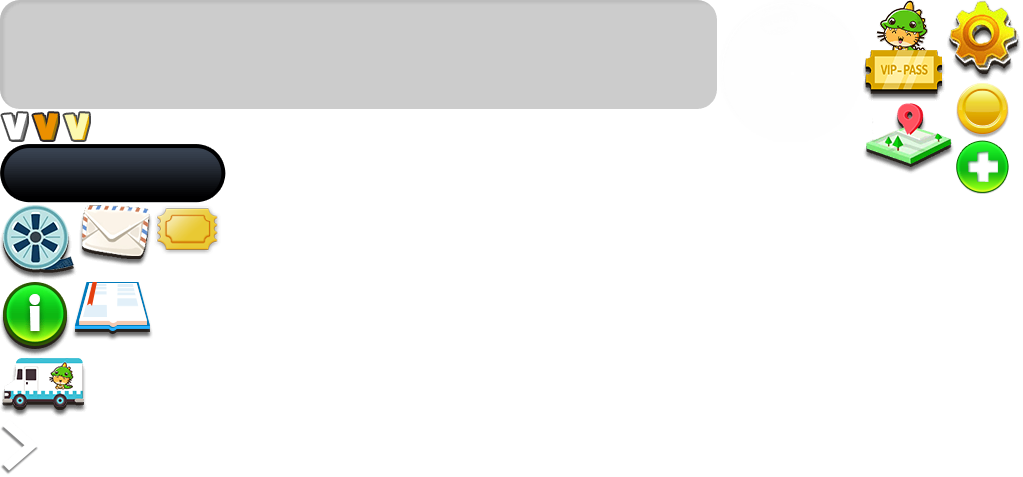
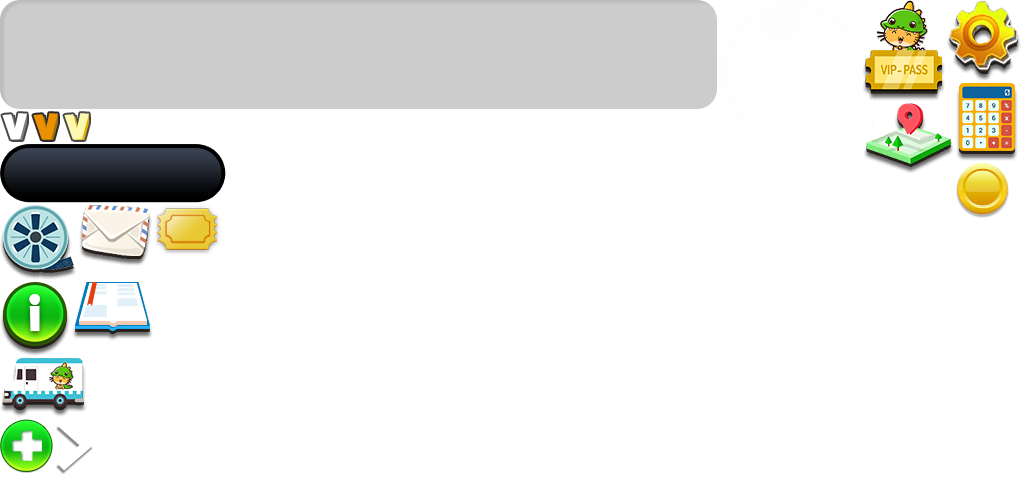
ledger

Changed region(s): [[0.9091, 0.1761, 1.0, 0.4696], [0.0, 0.8805, 0.0909, 0.9979]]

diff --git a/src/pages/my/user-center/user-center.component.ts b/src/pages/my/user-center/user-center.component.ts
@@ -4,7 +4,7 @@
 * @Author: Wayne Yu
 * @Date: 2021-09-10 15:17:37
  * @LastEditors: Wayne Yu
- * @LastEditTime: 2021-10-29 13:28:04
+ * @LastEditTime: 2021-10-29 14:43:43
 */
 import { Component } from '@angular/core';
 import { HttpClient } from '@angular/common/http';
@@ -69,6 +69,7 @@ export class UserCenterComponent extends MainPage {
       { icon: "icon_status", tip: "VIP status", itemType: UserCenterItemTypes.VIP },
       { icon: "icon_orders", tip: "My orders", itemType: UserCenterItemTypes.ORDER },
       { icon: "icon_address", tip: "My address", itemType: UserCenterItemTypes.ADDRESS },
+      { icon: "icon_ledger", tip: "Ledger", itemType: UserCenterItemTypes.LEDGER },
       { icon: "icon_setting", tip: "Settings", itemType: UserCenterItemTypes.SETTINGS },
       { icon: "icon_FAQs", tip: "FAQs", itemType: UserCenterItemTypes.FAQ, link: "https://www.dinomao.com/apps/help-center"  },
       { icon: "icon_contact", tip: "Contact us", itemType: UserCenterItemTypes.CONTACT },

diff --git a/src/siene/dynamic-layer/dynamic-layer.component.ts b/src/siene/dynamic-layer/dynamic-layer.component.ts
@@ -4,7 +4,7 @@
 * @Author: Wayne Yu
 * @Date: 2021-05-21 11:30:50
  * @LastEditors: Wayne Yu
- * @LastEditTime: 2021-10-28 10:06:27
+ * @LastEditTime: 2021-10-29 14:48:10
 */
 import { HttpClient } from '@angular/common/http';
 import { PageDirective } from './page.directive';
@@ -83,6 +83,8 @@ export class DynamicLayerComponent implements OnInit, OnChanges{
       case WebPages.VIDEO_RECORD: componentFactory = this.componentFactoryResolver.resolveComponentFactory(VideoRecordComponent);
         break;
       case WebPages.RECORD_PLAY: componentFactory = this.componentFactoryResolver.resolveComponentFactory(RecordPlayComponent);
+        break;
+      case WebPages.LEDGER: componentFactory = this.componentFactoryResolver.resolveComponentFactory(RecordPlayComponent);
         break;
       default:
         alert( "page name error" );

diff --git a/src/pages/my/user-center/user-center-scroll-list/user-center-scroll-list.component.ts b/src/pages/my/user-center/user-center-scroll-list/user-center-scroll-list.component.ts
@@ -4,7 +4,7 @@
  * @Author: Wayne Yu
  * @Date: 2021-09-14 11:49:12
  * @LastEditors: Wayne Yu
- * @LastEditTime: 2021-10-29 13:19:07
+ * @LastEditTime: 2021-10-29 14:45:22
  */
 import { Component } from '@angular/core';
 import { Application, ScrollListComponent } from '../../../../basicUI/basic-ui.module';
@@ -58,6 +58,9 @@ export class UserCenterScrollListComponent extends ScrollListComponent {
         break;
       case UserCenterItemTypes.RECORD:
         Trigger.gotoPage( WebPages.VIDEO_RECORD );
+        break;
+      case UserCenterItemTypes.LEDGER:
+        Trigger.gotoPage( WebPages.LEDGER );
         break;
       default:
         break;

diff --git a/src/service/gameData/user-center-item-types.ts b/src/service/gameData/user-center-item-types.ts
@@ -4,12 +4,13 @@
  * @Author: Wayne Yu
  * @Date: 2021-09-14 14:29:43
  * @LastEditors: Wayne Yu
- * @LastEditTime: 2021-10-27 17:11:46
+ * @LastEditTime: 2021-10-29 14:44:03
  */
 export class UserCenterItemTypes {
     public static VIP: string = "vip";
     public static ORDER: string = "order";
     public static ADDRESS: string = "address";
+    public static LEDGER: string = "ledger";
     public static SETTINGS: string = "setting";
     public static FAQ: string = "faq";
     public static CONTACT: string = "contact";

diff --git a/src/service/gameUILogic/WebPages.ts b/src/service/gameUILogic/WebPages.ts
@@ -4,7 +4,7 @@
  * @Author: Wayne Yu
  * @Date: 2021-09-02 11:56:43
  * @LastEditors: Wayne Yu
- * @LastEditTime: 2021-10-28 09:57:46
+ * @LastEditTime: 2021-10-29 14:45:39
  */
 export class WebPages {
     public static LOBBY: string = "lobby";
@@ -18,4 +18,5 @@ export class WebPages {
     public static START_UP: string = "startUp";
     public static VIDEO_RECORD: string = "videoRecord";
     public static RECORD_PLAY: string = "recordPlay";
+    public static LEDGER: string = "ledger";
 }
